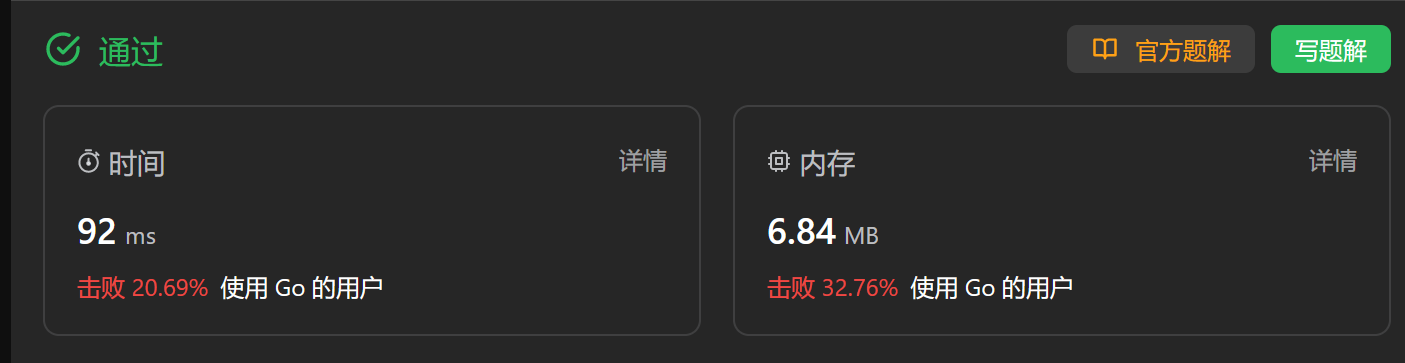
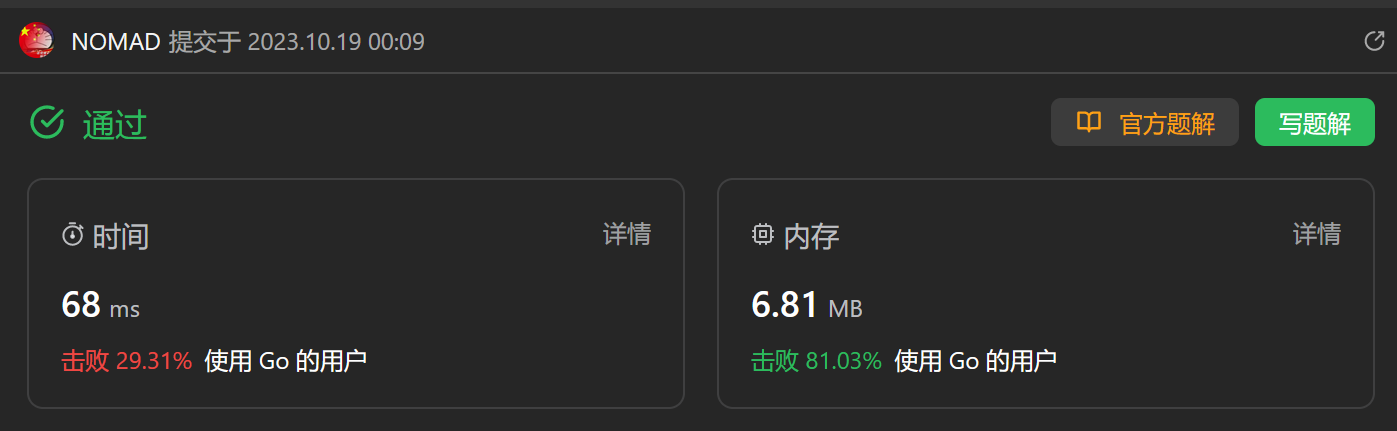
1218

diff --git a/动态规划/1277/main.go b/动态规划/1277/main.go
@@ -1,23 +1,34 @@
 package main
 
-func countSquares(matrix [][]int) (ans int) {
-	n := len(matrix)
-	m := len(matrix[0])
+import "fmt"
 
-	for i := 0; i < n; i++ {
-		for j := 0; j < m; j++ {
-			if i > 0 && j > 0 && matrix[i][j] == 1 {
-				matrix[i][j] = min(matrix[i-1][j], min(matrix[i][j-1], matrix[i-1][j-1])) + 1
+func countSquares(matrix [][]int) int {
+	m, n := len(matrix), len(matrix[0])
+	dp := make([][]int, m)
+	for i := 0; i < m; i++ {
+		dp[i] = make([]int, n)
+	}
+
+	cnt := 0
+	for size := 1; ; size++ {
+
+		curCnt := 0
+		for i := size - 1; i < m; i++ {
+			for j := size - 1; j < n; j++ {
+				if matrix[i][j] == 1 && (size == 1 || dp[i-1][j-1] >= size-1 && dp[i-1][j] >= size-1 && dp[i][j-1] >= size-1) {
+					dp[i][j] = size
+					curCnt++
+				}
 			}
-			ans += matrix[i][j]
+		}
+		cnt += curCnt
+		if curCnt == 0 {
+			break
 		}
 	}
-	return
+	return cnt
 }
 
-func min(a, b int) int {
-	if a < b {
-		return a
-	}
-	return b
+func main() {
+	fmt.Println(countSquares([][]int{{0, 1, 1, 1}, {1, 1, 1, 1}, {0, 1, 1, 1}}))
 }

diff --git a/动态规划/1218/main.go b/动态规划/1218/main.go
@@ -1,0 +1,39 @@
+package main
+
+import "fmt"
+
+func longestSubsequence(arr []int, difference int) int {
+	m := len(arr)
+	dp := make([][]int, m)
+	for i := 0; i < m; i++ {
+		dp[i] = make([]int, 2)
+	}
+	dp[0][1] = 1
+
+	idxMap := map[int]int{}
+	idxMap[arr[0]] = 0
+
+	for i := 1; i < m; i++ {
+		use, abandon := 0, dp[i-1][1]
+		if dp[i-1][0] > dp[i-1][1] {
+			abandon = dp[i-1][0]
+		}
+		if idx, ok := idxMap[arr[i]-difference]; ok {
+			use = dp[idx][1] + 1
+		} else {
+			use = 1
+		}
+		dp[i][0], dp[i][1] = abandon, use
+		idxMap[arr[i]] = i
+	}
+
+	ans := dp[m-1][0]
+	if dp[m-1][1] > ans {
+		ans = dp[m-1][1]
+	}
+	return ans
+}
+
+func main() {
+	fmt.Println(longestSubsequence([]int{1, 5, 7, 8, 5, 3, 4, 2, 1}, -2))
+}

diff --git a/动态规划/1218/README.md b/动态规划/1218/README.md
@@ -1,0 +1,4 @@
+##### [题目](https://leetcode.cn/problems/longest-arithmetic-subsequence-of-given-difference/description/)
+![pic](img.png)
+##### 结果：
+![pic](result.png)
